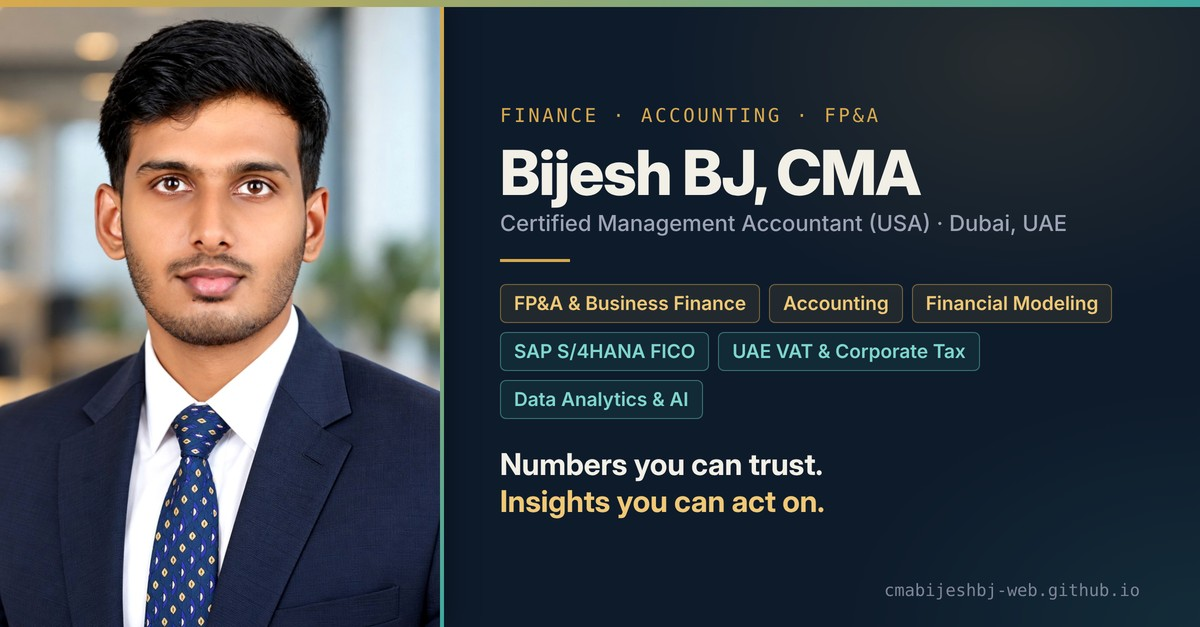
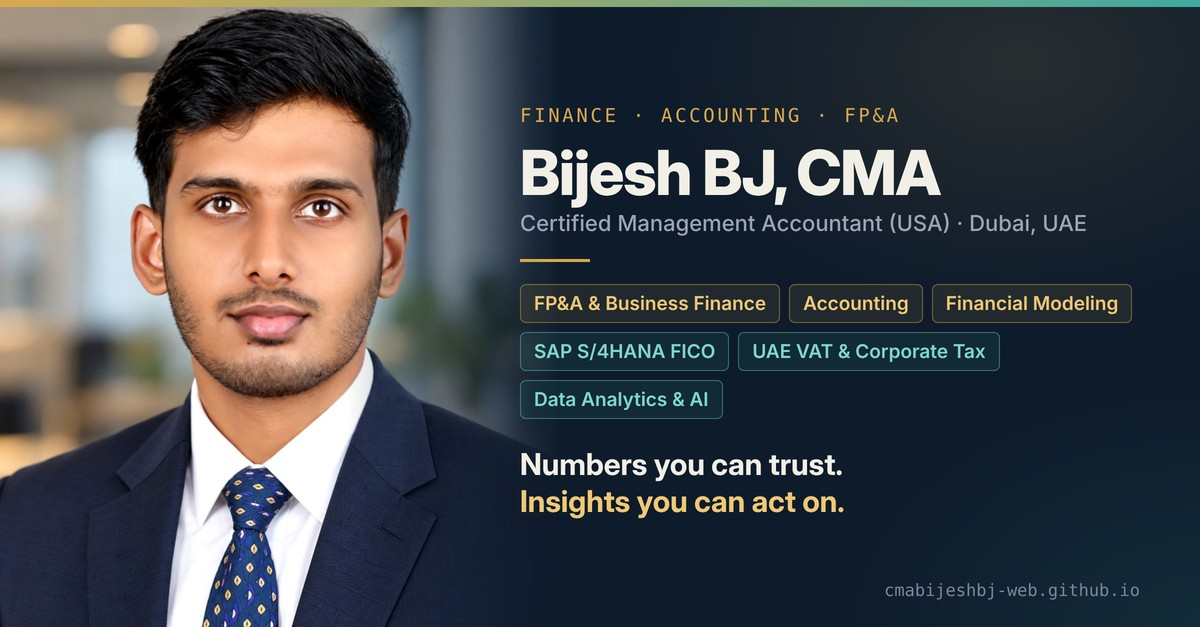
Link-preview card: soft edge blend of photo into background, no tint
Claude-Session: https://claude.ai/code/session_01BNz9B2AMKDvx2qBeBHuAEm

diff --git a/projects/financial-model.html b/projects/financial-model.html
@@ -10,11 +10,11 @@
 <meta property="og:title" content="Integrated 3-Statement Financial Model & DCF Valuation — Bijesh BJ, CMA | Finance & FP&A | SAP FICO | Data Analytics">
 <meta property="og:description" content="Scenario-driven 3-statement model and DCF to CFI standards with Base / Upside / Downside cases, sensitivity grid and integrity checks.">
 <meta property="og:url" content="https://cmabijeshbj-web.github.io/projects/financial-model.html">
-<meta property="og:image" content="https://cmabijeshbj-web.github.io/assets/og-image.jpg?v=4">
+<meta property="og:image" content="https://cmabijeshbj-web.github.io/assets/og-image.jpg?v=5">
 <meta property="og:image:width" content="1200">
 <meta property="og:image:height" content="627">
 <meta property="og:image:alt" content="Bijesh BJ, CMA (USA) — Finance &amp; FP&amp;A Portfolio">
-<meta name="twitter:image" content="https://cmabijeshbj-web.github.io/assets/og-image.jpg?v=4">
+<meta name="twitter:image" content="https://cmabijeshbj-web.github.io/assets/og-image.jpg?v=5">
 <meta name="twitter:card" content="summary_large_image">
 <link rel="preconnect" href="https://fonts.googleapis.com">
 <link href="https://fonts.googleapis.com/css2?family=Space+Grotesk:wght@500;600;700&family=IBM+Plex+Sans:wght@400;500;600&family=IBM+Plex+Mono:wght@400;500&display=swap" rel="stylesheet">

diff --git a/projects/fpa-variance-kpi.html b/projects/fpa-variance-kpi.html
@@ -10,11 +10,11 @@
 <meta property="og:title" content="FP&A Performance, Variance & KPI Analysis — Bijesh BJ, CMA | Finance & FP&A | SAP FICO | Data Analytics">
 <meta property="og:description" content="CFO-style FP&A pack: budget vs actual across 5 business units and 6 regions, KPI scorecard, RAG status, variance bridge and auto-commentary.">
 <meta property="og:url" content="https://cmabijeshbj-web.github.io/projects/fpa-variance-kpi.html">
-<meta property="og:image" content="https://cmabijeshbj-web.github.io/assets/og-image.jpg?v=4">
+<meta property="og:image" content="https://cmabijeshbj-web.github.io/assets/og-image.jpg?v=5">
 <meta property="og:image:width" content="1200">
 <meta property="og:image:height" content="627">
 <meta property="og:image:alt" content="Bijesh BJ, CMA (USA) — Finance &amp; FP&amp;A Portfolio">
-<meta name="twitter:image" content="https://cmabijeshbj-web.github.io/assets/og-image.jpg?v=4">
+<meta name="twitter:image" content="https://cmabijeshbj-web.github.io/assets/og-image.jpg?v=5">
 <meta name="twitter:card" content="summary_large_image">
 <link rel="preconnect" href="https://fonts.googleapis.com">
 <link href="https://fonts.googleapis.com/css2?family=Space+Grotesk:wght@500;600;700&family=IBM+Plex+Sans:wght@400;500;600&family=IBM+Plex+Mono:wght@400;500&display=swap" rel="stylesheet">

diff --git a/projects/uae-corporate-tax.html b/projects/uae-corporate-tax.html
@@ -10,11 +10,11 @@
 <meta property="og:title" content="UAE Corporate Tax Computation Model — Bijesh BJ, CMA | Finance & FP&A | SAP FICO | Data Analytics">
 <meta property="og:description" content="UAE corporate tax computation: ledger-driven add-backs, exempt income, interest limitation, loss relief, 0%/9% bands and rate reconciliation.">
 <meta property="og:url" content="https://cmabijeshbj-web.github.io/projects/uae-corporate-tax.html">
-<meta property="og:image" content="https://cmabijeshbj-web.github.io/assets/og-image.jpg?v=4">
+<meta property="og:image" content="https://cmabijeshbj-web.github.io/assets/og-image.jpg?v=5">
 <meta property="og:image:width" content="1200">
 <meta property="og:image:height" content="627">
 <meta property="og:image:alt" content="Bijesh BJ, CMA (USA) — Finance &amp; FP&amp;A Portfolio">
-<meta name="twitter:image" content="https://cmabijeshbj-web.github.io/assets/og-image.jpg?v=4">
+<meta name="twitter:image" content="https://cmabijeshbj-web.github.io/assets/og-image.jpg?v=5">
 <meta name="twitter:card" content="summary_large_image">
 <link rel="preconnect" href="https://fonts.googleapis.com">
 <link href="https://fonts.googleapis.com/css2?family=Space+Grotesk:wght@500;600;700&family=IBM+Plex+Sans:wght@400;500;600&family=IBM+Plex+Mono:wght@400;500&display=swap" rel="stylesheet">

diff --git a/projects/sql-analysis.html b/projects/sql-analysis.html
@@ -10,11 +10,11 @@
 <meta property="og:title" content="Financial Data Analysis Using SQL — Bijesh BJ, CMA | Finance & FP&A | SAP FICO | Data Analytics">
 <meta property="og:description" content="14 tested SQL queries on a 1,785-invoice billing register: growth, margin, concentration, receivables ageing, DSO and collection risk.">
 <meta property="og:url" content="https://cmabijeshbj-web.github.io/projects/sql-analysis.html">
-<meta property="og:image" content="https://cmabijeshbj-web.github.io/assets/og-image.jpg?v=4">
+<meta property="og:image" content="https://cmabijeshbj-web.github.io/assets/og-image.jpg?v=5">
 <meta property="og:image:width" content="1200">
 <meta property="og:image:height" content="627">
 <meta property="og:image:alt" content="Bijesh BJ, CMA (USA) — Finance &amp; FP&amp;A Portfolio">
-<meta name="twitter:image" content="https://cmabijeshbj-web.github.io/assets/og-image.jpg?v=4">
+<meta name="twitter:image" content="https://cmabijeshbj-web.github.io/assets/og-image.jpg?v=5">
 <meta name="twitter:card" content="summary_large_image">
 <link rel="preconnect" href="https://fonts.googleapis.com">
 <link href="https://fonts.googleapis.com/css2?family=Space+Grotesk:wght@500;600;700&family=IBM+Plex+Sans:wght@400;500;600&family=IBM+Plex+Mono:wght@400;500&display=swap" rel="stylesheet">

diff --git a/projects/powerbi-dashboard.html b/projects/powerbi-dashboard.html
@@ -10,11 +10,11 @@
 <meta property="og:title" content="Interactive FP&A Analytics Dashboard — Bijesh BJ, CMA | Finance & FP&A | SAP FICO | Data Analytics">
 <meta property="og:description" content="Interactive executive dashboard: FY / BU / Region filters drive every KPI, chart, heatmap, bridge and commentary.">
 <meta property="og:url" content="https://cmabijeshbj-web.github.io/projects/powerbi-dashboard.html">
-<meta property="og:image" content="https://cmabijeshbj-web.github.io/assets/og-image.jpg?v=4">
+<meta property="og:image" content="https://cmabijeshbj-web.github.io/assets/og-image.jpg?v=5">
 <meta property="og:image:width" content="1200">
 <meta property="og:image:height" content="627">
 <meta property="og:image:alt" content="Bijesh BJ, CMA (USA) — Finance &amp; FP&amp;A Portfolio">
-<meta name="twitter:image" content="https://cmabijeshbj-web.github.io/assets/og-image.jpg?v=4">
+<meta name="twitter:image" content="https://cmabijeshbj-web.github.io/assets/og-image.jpg?v=5">
 <meta name="twitter:card" content="summary_large_image">
 <link rel="preconnect" href="https://fonts.googleapis.com">
 <link href="https://fonts.googleapis.com/css2?family=Space+Grotesk:wght@500;600;700&family=IBM+Plex+Sans:wght@400;500;600&family=IBM+Plex+Mono:wght@400;500&display=swap" rel="stylesheet">

diff --git a/projects/uae-vat.html b/projects/uae-vat.html
@@ -10,11 +10,11 @@
 <meta property="og:title" content="UAE VAT Calculation, Return & Reconciliation — Bijesh BJ, CMA | Finance & FP&A | SAP FICO | Data Analytics">
 <meta property="og:description" content="UAE VAT compliance pack: 1,250 invoices mapped to VAT 201, exception testing and turnover reconciliation.">
 <meta property="og:url" content="https://cmabijeshbj-web.github.io/projects/uae-vat.html">
-<meta property="og:image" content="https://cmabijeshbj-web.github.io/assets/og-image.jpg?v=4">
+<meta property="og:image" content="https://cmabijeshbj-web.github.io/assets/og-image.jpg?v=5">
 <meta property="og:image:width" content="1200">
 <meta property="og:image:height" content="627">
 <meta property="og:image:alt" content="Bijesh BJ, CMA (USA) — Finance &amp; FP&amp;A Portfolio">
-<meta name="twitter:image" content="https://cmabijeshbj-web.github.io/assets/og-image.jpg?v=4">
+<meta name="twitter:image" content="https://cmabijeshbj-web.github.io/assets/og-image.jpg?v=5">
 <meta name="twitter:card" content="summary_large_image">
 <link rel="preconnect" href="https://fonts.googleapis.com">
 <link href="https://fonts.googleapis.com/css2?family=Space+Grotesk:wght@500;600;700&family=IBM+Plex+Sans:wght@400;500;600&family=IBM+Plex+Mono:wght@400;500&display=swap" rel="stylesheet">

diff --git a/certifications.html b/certifications.html
@@ -10,11 +10,11 @@
 <meta property="og:title" content="Education & Certifications — Bijesh BJ, CMA | Finance & FP&A | SAP FICO | Data Analytics">
 <meta property="og:description" content="Education and certifications held by Bijesh BJ — CMA (USA), IMA Data Analytics, UAE VAT and Corporate Tax, M.Com, B.Com.">
 <meta property="og:url" content="https://cmabijeshbj-web.github.io/certifications.html">
-<meta property="og:image" content="https://cmabijeshbj-web.github.io/assets/og-image.jpg?v=4">
+<meta property="og:image" content="https://cmabijeshbj-web.github.io/assets/og-image.jpg?v=5">
 <meta property="og:image:width" content="1200">
 <meta property="og:image:height" content="627">
 <meta property="og:image:alt" content="Bijesh BJ, CMA (USA) — Finance &amp; FP&amp;A Portfolio">
-<meta name="twitter:image" content="https://cmabijeshbj-web.github.io/assets/og-image.jpg?v=4">
+<meta name="twitter:image" content="https://cmabijeshbj-web.github.io/assets/og-image.jpg?v=5">
 <meta name="twitter:card" content="summary_large_image">
 <link rel="preconnect" href="https://fonts.googleapis.com">
 <link href="https://fonts.googleapis.com/css2?family=Space+Grotesk:wght@500;600;700&family=IBM+Plex+Sans:wght@400;500;600&family=IBM+Plex+Mono:wght@400;500&display=swap" rel="stylesheet">

diff --git a/projects/powerbi-dashboard-live.html b/projects/powerbi-dashboard-live.html
@@ -10,11 +10,11 @@
 <meta property="og:title" content="Executive FP&A Dashboard (Live) — Bijesh BJ, CMA">
 <meta property="og:description" content="Interactive executive FP&A dashboard with FY / BU / Region filters, variance bridge, heatmap and receivables ageing.">
 <meta property="og:url" content="https://cmabijeshbj-web.github.io/projects/powerbi-dashboard-live.html">
-<meta property="og:image" content="https://cmabijeshbj-web.github.io/assets/og-image.jpg?v=4">
+<meta property="og:image" content="https://cmabijeshbj-web.github.io/assets/og-image.jpg?v=5">
 <meta property="og:image:width" content="1200">
 <meta property="og:image:height" content="627">
 <meta property="og:image:alt" content="Bijesh BJ, CMA (USA) — Finance &amp; FP&amp;A Portfolio">
-<meta name="twitter:image" content="https://cmabijeshbj-web.github.io/assets/og-image.jpg?v=4">
+<meta name="twitter:image" content="https://cmabijeshbj-web.github.io/assets/og-image.jpg?v=5">
 <meta name="twitter:card" content="summary_large_image">
 <link rel="preconnect" href="https://fonts.googleapis.com">
 <link href="https://fonts.googleapis.com/css2?family=Space+Grotesk:wght@500;600;700&family=IBM+Plex+Sans:wght@400;500;600&family=IBM+Plex+Mono:wght@400;500&display=swap" rel="stylesheet">

diff --git a/index.html b/index.html
@@ -10,11 +10,11 @@
 <meta property="og:title" content="Bijesh BJ, CMA | Finance & FP&A | SAP FICO | Data Analytics">
 <meta property="og:description" content="Finance & FP&A portfolio of Bijesh BJ, CMA (USA) — FP&A, SAP FICO, UAE VAT & Corporate Tax, HTML dashboards, SQL, Python and VBA with AI.">
 <meta property="og:url" content="https://cmabijeshbj-web.github.io/">
-<meta property="og:image" content="https://cmabijeshbj-web.github.io/assets/og-image.jpg?v=4">
+<meta property="og:image" content="https://cmabijeshbj-web.github.io/assets/og-image.jpg?v=5">
 <meta property="og:image:width" content="1200">
 <meta property="og:image:height" content="627">
 <meta property="og:image:alt" content="Bijesh BJ, CMA (USA) — Finance &amp; FP&amp;A Portfolio">
-<meta name="twitter:image" content="https://cmabijeshbj-web.github.io/assets/og-image.jpg?v=4">
+<meta name="twitter:image" content="https://cmabijeshbj-web.github.io/assets/og-image.jpg?v=5">
 <meta name="twitter:card" content="summary_large_image">
 <link rel="preconnect" href="https://fonts.googleapis.com">
 <link href="https://fonts.googleapis.com/css2?family=Space+Grotesk:wght@500;600;700&family=IBM+Plex+Sans:wght@400;500;600&family=IBM+Plex+Mono:wght@400;500&display=swap" rel="stylesheet">

diff --git a/experience.html b/experience.html
@@ -10,11 +10,11 @@
 <meta property="og:title" content="Experience — Bijesh BJ, CMA | Finance & FP&A | SAP FICO | Data Analytics">
 <meta property="og:description" content="Career journey of Bijesh BJ — FP&A, business finance, accounting and tax experience.">
 <meta property="og:url" content="https://cmabijeshbj-web.github.io/experience.html">
-<meta property="og:image" content="https://cmabijeshbj-web.github.io/assets/og-image.jpg?v=4">
+<meta property="og:image" content="https://cmabijeshbj-web.github.io/assets/og-image.jpg?v=5">
 <meta property="og:image:width" content="1200">
 <meta property="og:image:height" content="627">
 <meta property="og:image:alt" content="Bijesh BJ, CMA (USA) — Finance &amp; FP&amp;A Portfolio">
-<meta name="twitter:image" content="https://cmabijeshbj-web.github.io/assets/og-image.jpg?v=4">
+<meta name="twitter:image" content="https://cmabijeshbj-web.github.io/assets/og-image.jpg?v=5">
 <meta name="twitter:card" content="summary_large_image">
 <link rel="preconnect" href="https://fonts.googleapis.com">
 <link href="https://fonts.googleapis.com/css2?family=Space+Grotesk:wght@500;600;700&family=IBM+Plex+Sans:wght@400;500;600&family=IBM+Plex+Mono:wght@400;500&display=swap" rel="stylesheet">

diff --git a/projects.html b/projects.html
@@ -10,11 +10,11 @@
 <meta property="og:title" content="Projects — Bijesh BJ, CMA | Finance & FP&A | SAP FICO | Data Analytics">
 <meta property="og:description" content="FP&A, financial modeling, UAE tax, SQL and Power BI demonstration projects by Bijesh BJ.">
 <meta property="og:url" content="https://cmabijeshbj-web.github.io/projects.html">
-<meta property="og:image" content="https://cmabijeshbj-web.github.io/assets/og-image.jpg?v=4">
+<meta property="og:image" content="https://cmabijeshbj-web.github.io/assets/og-image.jpg?v=5">
 <meta property="og:image:width" content="1200">
 <meta property="og:image:height" content="627">
 <meta property="og:image:alt" content="Bijesh BJ, CMA (USA) — Finance &amp; FP&amp;A Portfolio">
-<meta name="twitter:image" content="https://cmabijeshbj-web.github.io/assets/og-image.jpg?v=4">
+<meta name="twitter:image" content="https://cmabijeshbj-web.github.io/assets/og-image.jpg?v=5">
 <meta name="twitter:card" content="summary_large_image">
 <link rel="preconnect" href="https://fonts.googleapis.com">
 <link href="https://fonts.googleapis.com/css2?family=Space+Grotesk:wght@500;600;700&family=IBM+Plex+Sans:wght@400;500;600&family=IBM+Plex+Mono:wght@400;500&display=swap" rel="stylesheet">

diff --git a/contact.html b/contact.html
@@ -10,11 +10,11 @@
 <meta property="og:title" content="Contact — Bijesh BJ, CMA | Finance & FP&A | SAP FICO | Data Analytics">
 <meta property="og:description" content="Get in touch with Bijesh BJ — CMA (USA), FP&A professional based in Dubai, UAE.">
 <meta property="og:url" content="https://cmabijeshbj-web.github.io/contact.html">
-<meta property="og:image" content="https://cmabijeshbj-web.github.io/assets/og-image.jpg?v=4">
+<meta property="og:image" content="https://cmabijeshbj-web.github.io/assets/og-image.jpg?v=5">
 <meta property="og:image:width" content="1200">
 <meta property="og:image:height" content="627">
 <meta property="og:image:alt" content="Bijesh BJ, CMA (USA) — Finance &amp; FP&amp;A Portfolio">
-<meta name="twitter:image" content="https://cmabijeshbj-web.github.io/assets/og-image.jpg?v=4">
+<meta name="twitter:image" content="https://cmabijeshbj-web.github.io/assets/og-image.jpg?v=5">
 <meta name="twitter:card" content="summary_large_image">
 <link rel="preconnect" href="https://fonts.googleapis.com">
 <link href="https://fonts.googleapis.com/css2?family=Space+Grotesk:wght@500;600;700&family=IBM+Plex+Sans:wght@400;500;600&family=IBM+Plex+Mono:wght@400;500&display=swap" rel="stylesheet">
